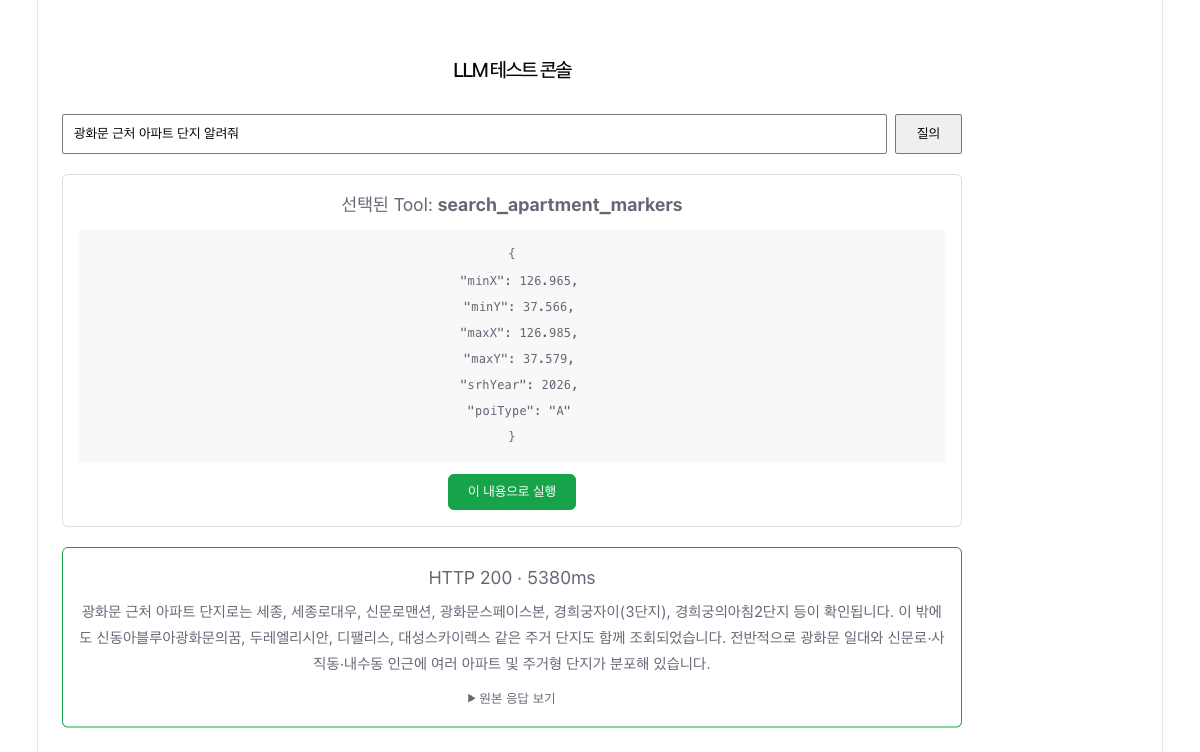
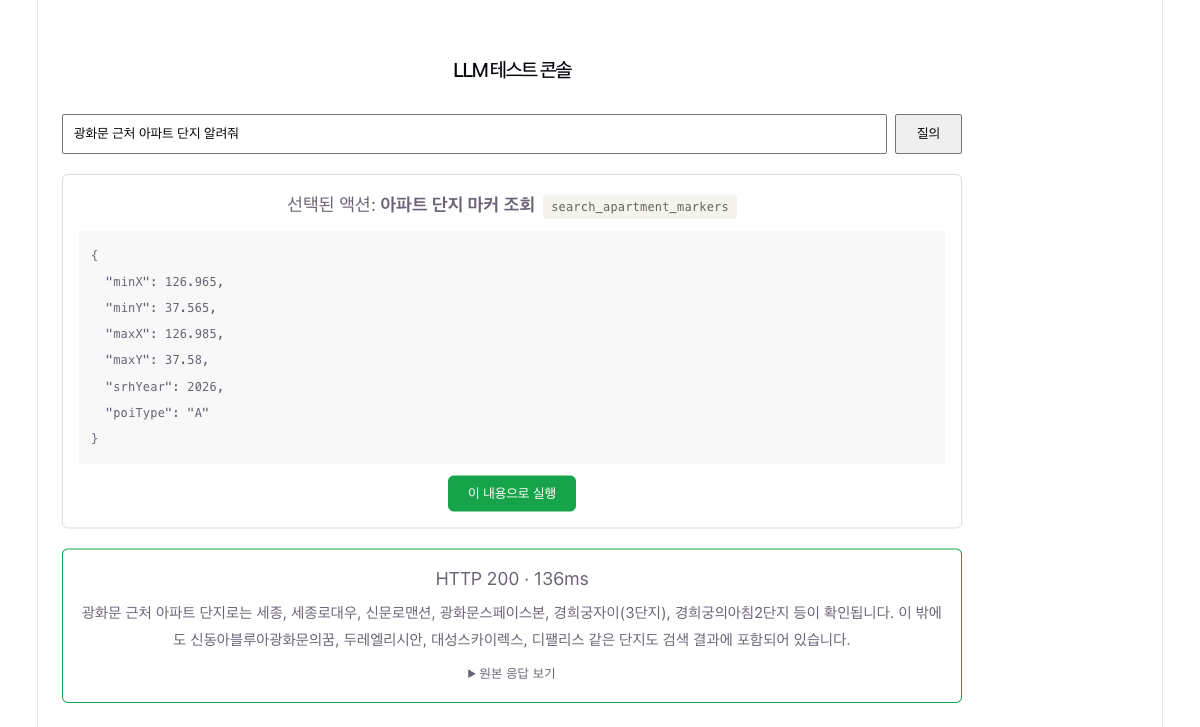
촬영 화면 정리 및 대본 오류 수정
- 인자 JSON이 상위 레이아웃의 가운데 정렬을 물려받아 흩어져 보이던 것을
  왼쪽 정렬로 고정
- 대본이 WAF 헤더 보존을 executor.py에 귀속시켰으나 실제 선별은
  schema_infer.py의 PRESERVED_HEADERS 쪽이다. 촬영 당일 400이 났을 때
  엉뚱한 파일을 열게 되므로 바로잡음
- 대본이 참조하는 장면 5/8 스크린샷이 미추적 상태여서 함께 커밋

diff --git a/apps/admin/src/pages/LlmConsole.tsx b/apps/admin/src/pages/LlmConsole.tsx
@@ -61,8 +61,9 @@ export default function LlmConsole() {
             )}
           </div>
           {selection.reason && <p style={{ color: "#666", fontSize: 13 }}>{selection.reason}</p>}
+          {/* textAlign: 상위 레이아웃의 가운데 정렬을 물려받으면 JSON이 흩어져 읽기 어렵다 */}
           {selection.arguments && (
-            <pre style={{ background: "#f8f8f8", padding: 12, fontSize: 12, overflowX: "auto" }}>
+            <pre style={{ background: "#f8f8f8", padding: 12, fontSize: 12, overflowX: "auto", textAlign: "left" }}>
               {JSON.stringify(selection.arguments, null, 2)}
             </pre>
           )}
